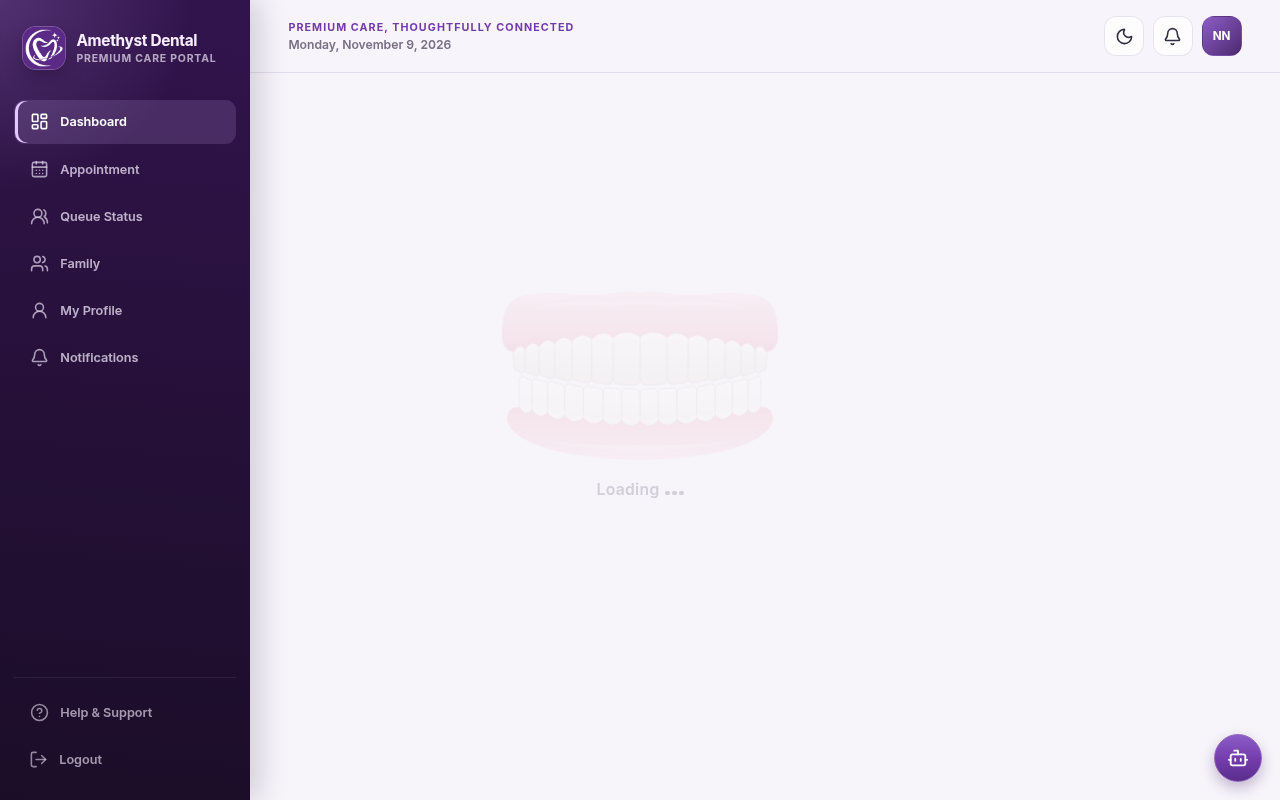
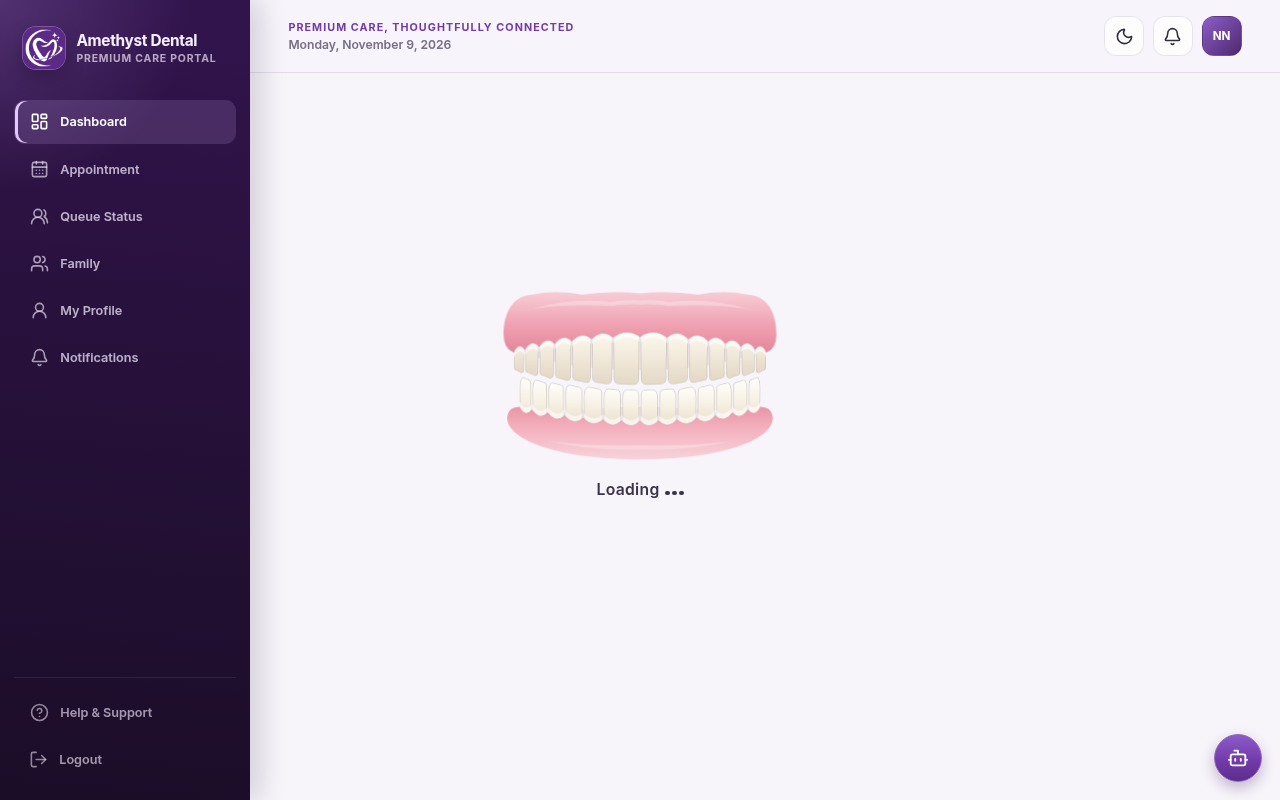
Round the shared tooth loader while keeping the original jaw motion.
The gums and crowns are redrawn with smoother contours, and the loading dots stay beside the message in both portal loaders.

Changed region(s): [[0.375, 0.3438, 0.625, 0.625]]

diff --git a/frontend/src/components/ToothLoader.jsx b/frontend/src/components/ToothLoader.jsx
@@ -9,37 +9,37 @@ function delayForIndex(index, count) {
 }
 
 const UPPER_TOOTH_PATHS = [
-  ["upper-r1", "M200,40 Q219,48 238,40 L238,125.1 Q238,134.1 229,134.1 L209,135 Q200,135 200,126 Z"],
-  ["upper-r2", "M238,40 Q253,47.5 268,40 L268,124.1 Q268,132.1 260,132.1 L246,134.1 Q238,134.1 238,126.1 Z"],
-  ["upper-r3", "M268,40 Q282,47 296,40 L296,122.2 Q296,129.2 289,129.2 L275,132.1 Q268,132.1 268,125.1 Z"],
-  ["upper-r4", "M296,40 Q308,46.5 320,40 L320,119.9 Q320,125.9 314,125.9 L302,129.2 Q296,129.2 296,123.2 Z"],
-  ["upper-r5", "M320,40 Q331,46 342,40 L342,116.3 Q342,122.3 336,122.3 L326,125.9 Q320,125.9 320,119.9 Z"],
-  ["upper-r6", "M342,40 Q352,45.5 362,40 L362,113.4 Q362,118.4 357,118.4 L347,122.3 Q342,122.3 342,117.3 Z"],
-  ["upper-r7", "M362,40 Q370,45 378,40 L378,110 Q378,115 373,115 L367,118.4 Q362,118.4 362,113.4 Z"],
-  ["upper-l1", "M200,40 Q181,48 162,40 L162,125.1 Q162,134.1 171,134.1 L191,135 Q200,135 200,126 Z"],
-  ["upper-l2", "M162,40 Q147,47.5 132,40 L132,124.1 Q132,132.1 140,132.1 L154,134.1 Q162,134.1 162,126.1 Z"],
-  ["upper-l3", "M132,40 Q118,47 104,40 L104,122.2 Q104,129.2 111,129.2 L125,132.1 Q132,132.1 132,125.1 Z"],
-  ["upper-l4", "M104,40 Q92,46.5 80,40 L80,119.9 Q80,125.9 86,125.9 L98,129.2 Q104,129.2 104,123.2 Z"],
-  ["upper-l5", "M80,40 Q69,46 58,40 L58,116.3 Q58,122.3 64,122.3 L74,125.9 Q80,125.9 80,119.9 Z"],
-  ["upper-l6", "M58,40 Q48,45.5 38,40 L38,113.4 Q38,118.4 43,118.4 L53,122.3 Q58,122.3 58,117.3 Z"],
-  ["upper-l7", "M38,40 Q30,45 22,40 L22,110 Q22,115 27,115 L33,118.4 Q38,118.4 38,113.4 Z"],
+  ["upper-r1", "M201.4,40 Q219,51 236.6,40 Q238.2,64 237.2,96 Q236.6,120 237.2,125.1 Q237.2,134.1 228.4,134.1 L210.4,135 Q201.4,135 201.4,126 Q200.6,96 201.4,40 Z"],
+  ["upper-r2", "M239.4,40 Q253,50 266.6,40 Q268.2,64 267.2,96 Q266.6,118 267.2,124.1 Q267.2,132.1 259.4,132.1 L246.2,134.1 Q239.4,134.1 239.4,126.1 Q238.6,96 239.4,40 Z"],
+  ["upper-r3", "M269.4,40 Q282,49.5 294.6,40 Q296.2,62 295.2,94 Q294.6,116 295.2,122.2 Q295.2,129.2 288.4,129.2 L275.6,132.1 Q269.4,132.1 269.4,125.1 Q268.6,94 269.4,40 Z"],
+  ["upper-r4", "M297.4,40 Q308,48.5 318.6,40 Q320.2,60 319.2,92 Q318.6,114 319.2,119.9 Q319.2,125.9 313.4,125.9 L302.6,129.2 Q297.4,129.2 297.4,123.2 Q296.6,92 297.4,40 Z"],
+  ["upper-r5", "M321.3,40 Q331,48 340.7,40 Q342.2,58 341.3,88 Q340.8,110 341.3,116.3 Q341.3,122.3 335.4,122.3 L326.6,125.9 Q321.3,125.9 321.3,119.9 Q320.6,88 321.3,40 Z"],
+  ["upper-r6", "M343.2,40 Q352,47 360.8,40 Q362.2,56 361.3,86 Q360.8,106 361.3,113.4 Q361.3,118.4 356.4,118.4 L347.6,122.3 Q343.2,122.3 343.2,117.3 Q342.6,86 343.2,40 Z"],
+  ["upper-r7", "M363.2,40 Q370,46 376.8,40 Q378.1,54 377.3,82 Q376.9,102 377.3,110 Q377.3,115 372.5,115 L367.4,118.4 Q363.2,118.4 363.2,113.4 Q362.6,82 363.2,40 Z"],
+  ["upper-l1", "M198.6,40 Q181,51 163.4,40 Q161.8,64 162.8,96 Q163.4,120 162.8,125.1 Q162.8,134.1 171.6,134.1 L189.6,135 Q198.6,135 198.6,126 Q199.4,96 198.6,40 Z"],
+  ["upper-l2", "M160.6,40 Q147,50 133.4,40 Q131.8,64 132.8,96 Q133.4,118 132.8,124.1 Q132.8,132.1 140.6,132.1 L153.8,134.1 Q160.6,134.1 160.6,126.1 Q161.4,96 160.6,40 Z"],
+  ["upper-l3", "M130.6,40 Q118,49.5 105.4,40 Q103.8,62 104.8,94 Q105.4,116 104.8,122.2 Q104.8,129.2 111.6,129.2 L124.4,132.1 Q130.6,132.1 130.6,125.1 Q131.4,94 130.6,40 Z"],
+  ["upper-l4", "M102.6,40 Q92,48.5 81.4,40 Q79.8,60 80.8,92 Q81.4,114 80.8,119.9 Q80.8,125.9 86.6,125.9 L97.4,129.2 Q102.6,129.2 102.6,123.2 Q103.4,92 102.6,40 Z"],
+  ["upper-l5", "M78.7,40 Q69,48 59.3,40 Q57.8,58 58.7,88 Q59.2,110 58.7,116.3 Q58.7,122.3 64.6,122.3 L73.4,125.9 Q78.7,125.9 78.7,119.9 Q79.4,88 78.7,40 Z"],
+  ["upper-l6", "M56.8,40 Q48,47 39.2,40 Q37.8,56 38.7,86 Q39.2,106 38.7,113.4 Q38.7,118.4 43.6,118.4 L52.4,122.3 Q56.8,122.3 56.8,117.3 Q57.4,86 56.8,40 Z"],
+  ["upper-l7", "M36.8,40 Q30,46 23.2,40 Q21.9,54 22.7,82 Q23.1,102 22.7,110 Q22.7,115 27.5,115 L32.6,118.4 Q36.8,118.4 36.8,113.4 Q37.4,82 36.8,40 Z"],
 ];
 
 const LOWER_TOOTH_PATHS = [
-  ["lower-r1", "M200,200 L200,148 Q200,141 207,141 L219,140.6 Q226,140.6 226,147.6 L226,200 Q213,193 200,200 Z"],
-  ["lower-r2", "M226,200 L226,147.6 Q226,140.6 233,140.6 L245,139.3 Q252,139.3 252,146.3 L252,200 Q239,193.4 226,200 Z"],
-  ["lower-r3", "M252,200 L252,146.3 Q252,139.3 259,139.3 L273,137 Q280,137 280,144 L280,200 Q266,193.6 252,200 Z"],
-  ["lower-r4", "M280,200 L280,143 Q280,137 286,137 L300,133.9 Q306,133.9 306,139.9 L306,200 Q293,194 280,200 Z"],
-  ["lower-r5", "M306,200 L306,139.9 Q306,133.9 312,133.9 L324,130.3 Q330,130.3 330,136.3 L330,200 Q318,194.4 306,200 Z"],
-  ["lower-r6", "M330,200 L330,135.3 Q330,130.3 335,130.3 L347,126.4 Q352,126.4 352,131.4 L352,200 Q341,194.6 330,200 Z"],
-  ["lower-r7", "M352,200 L352,131.4 Q352,126.4 357,126.4 L365,122.8 Q370,122.8 370,127.8 L370,200 Q361,195 352,200 Z"],
-  ["lower-l1", "M200,200 L200,148 Q200,141 193,141 L181,140.6 Q174,140.6 174,147.6 L174,200 Q187,193 200,200 Z"],
-  ["lower-l2", "M174,200 L174,147.6 Q174,140.6 167,140.6 L155,139.3 Q148,139.3 148,146.3 L148,200 Q161,193.4 174,200 Z"],
-  ["lower-l3", "M148,200 L148,146.3 Q148,139.3 141,139.3 L127,137 Q120,137 120,144 L120,200 Q134,193.6 148,200 Z"],
-  ["lower-l4", "M120,200 L120,143 Q120,137 114,137 L100,133.9 Q94,133.9 94,139.9 L94,200 Q107,194 120,200 Z"],
-  ["lower-l5", "M94,200 L94,139.9 Q94,133.9 88,133.9 L76,130.3 Q70,130.3 70,136.3 L70,200 Q82,194.4 94,200 Z"],
-  ["lower-l6", "M70,200 L70,135.3 Q70,130.3 65,130.3 L53,126.4 Q48,126.4 48,131.4 L48,200 Q59,194.6 70,200 Z"],
-  ["lower-l7", "M48,200 L48,131.4 Q48,126.4 43,126.4 L35,122.8 Q30,122.8 30,127.8 L30,200 Q39,195 48,200 Z"],
+  ["lower-r1", "M201.4,200 Q213,192 224.6,200 L225.2,156 Q225.2,141.6 218.2,141.4 L208.2,141.6 Q201.4,141.8 201.4,150 Q200.6,170 201.4,200 Z"],
+  ["lower-r2", "M227.4,200 Q239,192.6 250.6,200 L251.2,156 Q251.2,140.6 244.4,140.2 L234.2,141.2 Q227.4,141.4 227.4,148.4 Q226.6,170 227.4,200 Z"],
+  ["lower-r3", "M253.4,200 Q266,193 278.6,200 L279.2,154 Q279.2,138.2 272.2,137.6 L260.4,139.8 Q253.4,140.2 253.4,147.2 Q252.6,168 253.4,200 Z"],
+  ["lower-r4", "M281.4,200 Q293,194 304.6,200 L305.2,150 Q305.2,135 299.2,134.6 L287.4,137.4 Q281.4,138 281.4,144 Q280.6,166 281.4,200 Z"],
+  ["lower-r5", "M307.3,200 Q318,194.4 328.7,200 L329.2,148 Q329.2,132.2 323.4,131.6 L313.2,134.4 Q307.3,135 307.3,141 Q306.6,164 307.3,200 Z"],
+  ["lower-r6", "M331.2,200 Q341,194.8 350.8,200 L351.2,144 Q351.2,128.4 346.4,127.6 L336.4,130.8 Q331.2,131.4 331.2,136.4 Q330.6,160 331.2,200 Z"],
+  ["lower-r7", "M353.2,200 Q361,195 368.8,200 L369.2,140 Q369.2,125 364.6,124 L358,126.8 Q353.2,127.4 353.2,132.4 Q352.6,158 353.2,200 Z"],
+  ["lower-l1", "M198.6,200 Q187,192 175.4,200 L174.8,156 Q174.8,141.6 181.8,141.4 L191.8,141.6 Q198.6,141.8 198.6,150 Q199.4,170 198.6,200 Z"],
+  ["lower-l2", "M172.6,200 Q161,192.6 149.4,200 L148.8,156 Q148.8,140.6 155.6,140.2 L165.8,141.2 Q172.6,141.4 172.6,148.4 Q173.4,170 172.6,200 Z"],
+  ["lower-l3", "M146.6,200 Q134,193 121.4,200 L120.8,154 Q120.8,138.2 127.8,137.6 L139.6,139.8 Q146.6,140.2 146.6,147.2 Q147.4,168 146.6,200 Z"],
+  ["lower-l4", "M118.6,200 Q107,194 95.4,200 L94.8,150 Q94.8,135 100.8,134.6 L112.6,137.4 Q118.6,138 118.6,144 Q119.4,166 118.6,200 Z"],
+  ["lower-l5", "M92.7,200 Q82,194.4 71.3,200 L70.8,148 Q70.8,132.2 76.6,131.6 L86.8,134.4 Q92.7,135 92.7,141 Q93.4,164 92.7,200 Z"],
+  ["lower-l6", "M68.8,200 Q59,194.8 49.2,200 L48.8,144 Q48.8,128.4 53.6,127.6 L63.6,130.8 Q68.8,131.4 68.8,136.4 Q69.4,160 68.8,200 Z"],
+  ["lower-l7", "M46.8,200 Q39,195 31.2,200 L30.8,140 Q30.8,125 35.4,124 L42,126.8 Q46.8,127.4 46.8,132.4 Q47.4,158 46.8,200 Z"],
 ];
 
 const UPPER_SHADE_PATHS = [
@@ -84,11 +84,16 @@ function delayForTooth(id) {
   return delayForIndex(index === -1 ? 0 : index, LEFT_TO_RIGHT.length);
 }
 
-function AnimatedTooth({ id, d, shade }) {
+function AnimatedTooth({ id, d, shade, clipId }) {
   return (
     <g className="tooth-loader__tooth" style={{ "--tooth-delay": delayForTooth(id) }}>
-      <path id={id} d={d} />
-      {shade ? <path className="tooth-loader__sheen" d={shade} /> : null}
+      <clipPath id={clipId}>
+        <path d={d} />
+      </clipPath>
+      <g clipPath={`url(#${clipId})`}>
+        <path id={id} d={d} />
+        {shade ? <path className="tooth-loader__sheen" d={shade} /> : null}
+      </g>
     </g>
   );
 }
@@ -114,34 +119,34 @@ function DentalArch() {
       >
         <defs>
           <linearGradient id={enamel} x1="0" y1="0" x2="0" y2="1">
-            <stop offset="0" stopColor="#fffdf8" />
-            <stop offset="0.58" stopColor="#f6f1e6" />
-            <stop offset="1" stopColor="#e6ddd0" />
+            <stop offset="0" stopColor="#fffefb" />
+            <stop offset="0.42" stopColor="#f7f1e4" />
+            <stop offset="1" stopColor="#e4d8c6" />
           </linearGradient>
-          <linearGradient id={upperGum} x1="200" y1="4" x2="200" y2="96" gradientUnits="userSpaceOnUse">
-            <stop offset="0" stopColor="#f8d5dc" />
-            <stop offset="0.55" stopColor="#f3aebc" />
-            <stop offset="1" stopColor="#e48b9d" />
+          <linearGradient id={upperGum} x1="200" y1="2" x2="200" y2="100" gradientUnits="userSpaceOnUse">
+            <stop offset="0" stopColor="#f8d0d8" />
+            <stop offset="0.48" stopColor="#f0a3b4" />
+            <stop offset="1" stopColor="#e07f94" />
           </linearGradient>
-          <linearGradient id={lowerGum} x1="200" y1="150" x2="200" y2="240" gradientUnits="userSpaceOnUse">
-            <stop offset="0" stopColor="#e992a4" />
-            <stop offset="0.5" stopColor="#f3b0be" />
-            <stop offset="1" stopColor="#f7d0d8" />
+          <linearGradient id={lowerGum} x1="200" y1="150" x2="200" y2="242" gradientUnits="userSpaceOnUse">
+            <stop offset="0" stopColor="#e3869b" />
+            <stop offset="0.46" stopColor="#f3aebc" />
+            <stop offset="1" stopColor="#f8d5dc" />
           </linearGradient>
         </defs>
         <ellipse className="tooth-loader__depth" cx="200" cy="78" rx="168" ry="36" />
         <ellipse className="tooth-loader__depth" cx="200" cy="196" rx="162" ry="30" />
         <g id="upper-jaw">
-          <g id="upper-teeth" fill={`url(#${enamel})`} stroke="#c5bfb6" strokeWidth="1.05" strokeLinejoin="round">
+          <g id="upper-teeth" fill={`url(#${enamel})`} stroke="#b7afa4" strokeWidth="1.15" strokeLinejoin="round">
             {UPPER_TOOTH_PATHS.map(([id, d]) => (
-              <AnimatedTooth key={id} id={id} d={d} shade={shadeFor(UPPER_SHADE_PATHS, id)} />
+              <AnimatedTooth key={id} id={id} d={d} shade={shadeFor(UPPER_SHADE_PATHS, id)} clipId={`${rawId}-${id}`} />
             ))}
           </g>
           <path
             id="upper-gum"
             className="tooth-loader__gum"
             fill={`url(#${upperGum})`}
-            d="M22,89 Q6,86 6,66 C6,30 14,12 40,9 Q70,3 100,7 Q130,11 160,6 Q180,2 200,5 Q220,2 240,6 Q270,11 300,7 Q330,3 360,9 C386,12 394,30 394,66 Q394,86 378,89 Q370,73.1 362,85.2 Q352,69.1 342,81 Q331,65 320,77 Q308,61.2 296,73.4 Q282,57.8 268,70.2 Q253,55.1 238,68 Q219,53.5 200,67 Q181,53.5 162,68 Q147,55.1 132,70.2 Q118,57.8 104,73.4 Q92,61.2 80,77 Q69,65 58,81 Q48,69.1 38,85.2 Q30,73.1 22,89 Z"
+            d="M22,89 Q8,84 8,64 C8,34 20,10 48,8 Q82,1 118,8 Q156,2 200,6 Q244,2 282,8 Q318,1 352,8 C380,10 392,34 392,64 Q392,84 378,89 Q370,73.1 362,85.2 Q352,69.1 342,81 Q331,65 320,77 Q308,61.2 296,73.4 Q282,57.8 268,70.2 Q253,55.1 238,68 Q219,53.5 200,67 Q181,53.5 162,68 Q147,55.1 132,70.2 Q118,57.8 104,73.4 Q92,61.2 80,77 Q69,65 58,81 Q48,69.1 38,85.2 Q30,73.1 22,89 Z"
           />
           <path
             className="tooth-loader__gum-highlight"
@@ -153,9 +158,9 @@ function DentalArch() {
           />
         </g>
         <g id="lower-jaw">
-          <g id="lower-teeth" fill={`url(#${enamel})`} stroke="#c5bfb6" strokeWidth="1.05" strokeLinejoin="round">
+          <g id="lower-teeth" fill={`url(#${enamel})`} stroke="#b7afa4" strokeWidth="1.15" strokeLinejoin="round">
             {LOWER_TOOTH_PATHS.map(([id, d]) => (
-              <AnimatedTooth key={id} id={id} d={d} shade={shadeFor(LOWER_SHADE_PATHS, id)} />
+              <AnimatedTooth key={id} id={id} d={d} shade={shadeFor(LOWER_SHADE_PATHS, id)} clipId={`${rawId}-${id}`} />
             ))}
           </g>
           <path
@@ -217,7 +222,7 @@ export function ToothLoader({
     .filter(Boolean)
     .join(" ");
 
-  const labelText = String(label).replace(/\.+$/, "") || "Loading";
+  const labelText = String(label).replace(/[.…\s]+$/u, "") || "Loading";
 
   const content = (
     <div

diff --git a/frontend/src/index.css b/frontend/src/index.css
@@ -1409,11 +1409,11 @@ strong {
 .tooth-loader__sheen {
   fill: #fff;
   stroke: none;
-  opacity: 0.5;
+  opacity: 0.62;
 }
 
 .tooth-loader__depth {
-  fill: rgba(140, 66, 104, 0.08);
+  fill: rgba(140, 66, 104, 0.1);
   stroke: none;
 }
 
@@ -1441,22 +1441,36 @@ strong {
 
 .tooth-loader__label {
   margin: 0;
-  display: inline-flex;
-  align-items: baseline;
-  justify-content: center;
-  color: var(--tooth-label);
+  display: block;
+  color: #3b3348;
   font-size: 0.98rem;
   font-weight: 600;
   letter-spacing: 0.02em;
   text-align: center;
-  max-width: 22rem;
+  max-width: min(22rem, 92vw);
+}
+
+.tooth-loader__label-text {
+  display: inline;
 }
 
 .tooth-loader--compact .tooth-loader__label,
 .loading-state--inline .tooth-loader__label {
-  color: var(--text-muted);
+  color: #6d6478;
   font-weight: 500;
   font-size: 0.84rem;
+}
+
+html[data-theme="dark"] .portal-shell .tooth-loader__label,
+.portal-shell[data-theme="dark"] .tooth-loader__label {
+  color: #ded6e8;
+}
+
+html[data-theme="dark"] .portal-shell .tooth-loader--compact .tooth-loader__label,
+html[data-theme="dark"] .portal-shell .loading-state--inline .tooth-loader__label,
+.portal-shell[data-theme="dark"] .tooth-loader--compact .tooth-loader__label,
+.portal-shell[data-theme="dark"] .loading-state--inline .tooth-loader__label {
+  color: #c8bfd6;
 }
 
 .tooth-loader__ellipsis {
